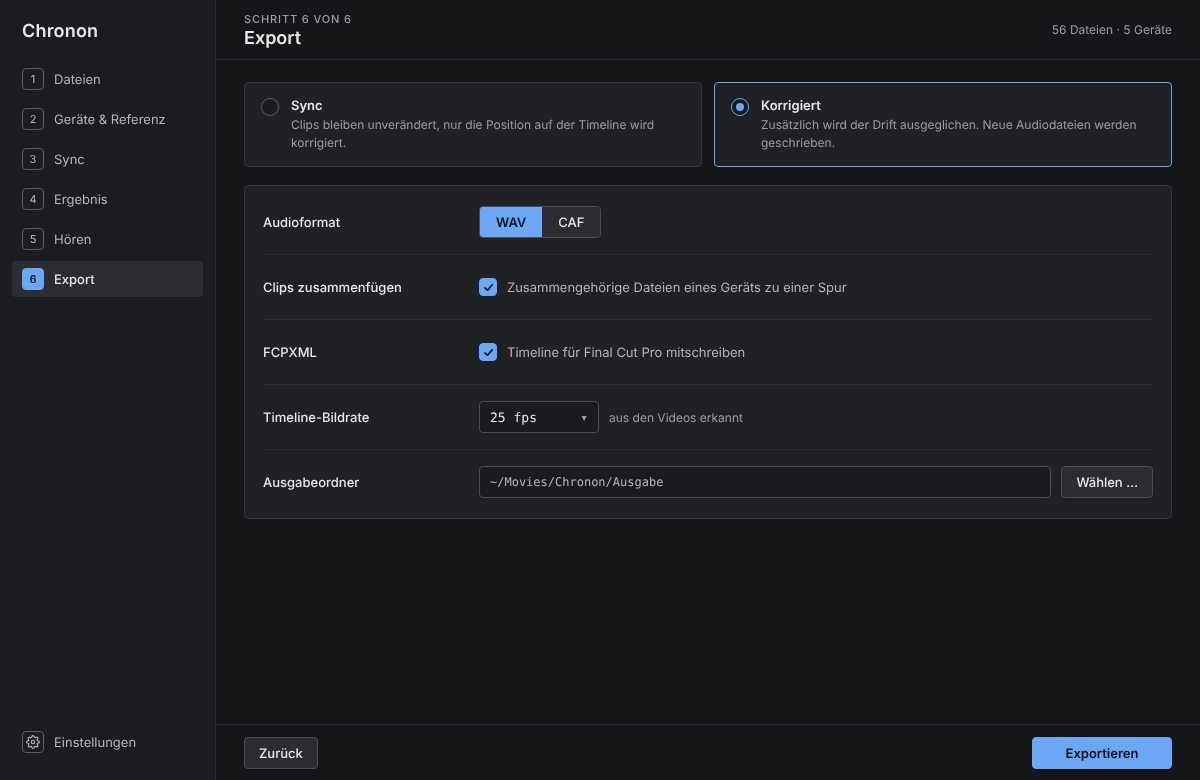
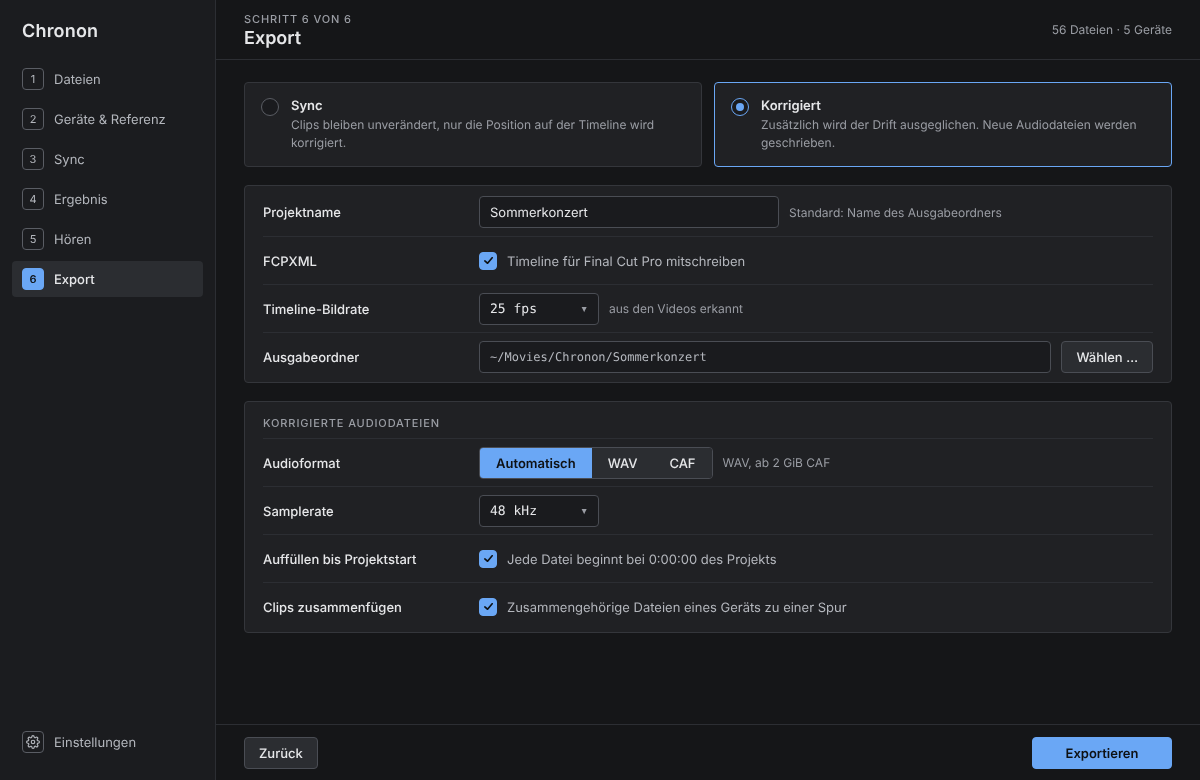
Design revision 1: device editing, listen list, export options, appearance
New boards 05a-c (regroup, move, merge), 11a-b (sync form, no padding); boards 05, 10-15
updated per docs/design/revision-1.md; README updated.

diff --git a/docs/design/ui/README.md b/docs/design/ui/README.md
@@ -20,20 +20,31 @@ load them first (the prototype uses sample data).
 | 02-files-reading | Intermediate state while the files are probed ("23 / 56") |
 | 03-files-loaded | Flat file list: name, duration, sample rate, channels, start time |
 | 04-files-unreadable-dialog | Modal "Datei nicht lesbar" with the ffmpeg message |
-| 05-devices-reference | Device list (pick the reference device), then reference tracks, then audition |
+| 05-devices-reference | Device list (rename inline with optional description, reorder by the drag handle, pick the reference; "Vorschlag" marks the suggestion), then reference tracks (nameable), then audition |
+| 05a-devices-regroup | A device's files opened: select files, then "In Gerät verschieben …" or "Als neues Gerät abtrennen" (the file menu shows the same two) |
+| 05b-devices-move-dialog | Dialog "Datei verschieben": pick a device or "Neues Gerät" with a name |
+| 05c-devices-merge-dialog | Dialog "Geräte zusammenführen" (row menu "…"), with the name after merging |
 | 06-sync-running / 07-sync-cancelled | Progress, step list, cancel in the footer |
 | 08-result | "Alle 5 Geräte sind synchronisiert", read-only timeline, details collapsed |
 | 09-result-details-special-cases | Details table with all verdict kinds |
-| 10-listen | Waveform of reference and file around a position, play, split/mixed |
-| 11-export / 12-export-rejected / 13-export-done / 14-export-done-with-notes | Export form and outcomes |
-| 15-settings | Language, cache folder, log, about |
+| 10-listen | Every file except the reference with its verdict badge; files to check first ("Zu prüfen"), then "Zuverlässig". Waveform of reference and file around a position, play, split/mixed |
+| 11-export / 11a-export-sync / 11b-export-no-padding | Export form: "Korrigiert" (format, sample rate, padding, join clips), "Sync" (project name, FCPXML, frame rate, output folder only), padding off with the CAF hint |
+| 12-export-rejected / 13-export-done / 14-export-done-with-notes | Rejected output folder, outcome list (`<Gerät>_korrigiert.<ext>`), outcome with notes. The only file action is "Im Finder zeigen" |
+| 15-settings | Language, appearance (System / Hell / Dunkel), cache folder (macOS path shown), log, about |
+
+The PNG numbers of earlier boards stay as they were; new boards of a step get a letter (05a, 11a).
 
 ## Where the data comes from
 
 - **Files step:** `audio.probe` per file (metadata only, one ffprobe call each). Unreadable files
   show up here (`AudioError: cannot read …`).
 - **Devices step:** `devices.group` from that metadata and the file names. The reference is a
-  device plus its tracks (`-r`). Grouping must not appear in the Files step.
+  device plus its tracks (`-r`). Grouping must not appear in the Files step. The user may then
+  rename, reorder, regroup (move a file, split, merge) and name tracks. All of that is a property
+  of the project, never of the original files. Device names become `<Gerät>_korrigiert.<ext>`
+  and lane / clip names in the timeline file.
+- **Reference suggestion:** the device covering the most time is preselected and marked
+  "Vorschlag", its loudest tracks are preselected. Both can be changed.
 - **Result rows:** per file `offset`, `drift_ppm`, `confidence`, `reliable`, `wander_ms`, `via`,
   `drift_from`, `linked_via`, `notes` (see `docs/app.md`).
 - **Verdict badges** (only what the core reports):
@@ -42,6 +53,8 @@ load them first (the prototype uses sample data).
   - `kein sicherer Treffer`: `reliable` is false. Hints: "drift from <file>", "linked via <file>".
   - `Referenz`: the reference device.
   - Other hints: `inverted`, "video placed within ±x ms", "measured via <file>".
+- **Listen step:** the list holds every file with a verdict (`reliable`, `wander_ms`), not only
+  the measured ones. Files that are not reliable or wander come first.
 - **Export notes:** from `correct.py` (CAF instead of WAV above 2 GiB, no time stamp in CAF,
   audio of a video file, `VERIFICATION FAILED`). Board 14 shows how they appear.
 - Placeholders in the boards (`[Start]`, `[ppm]`, `±[x] ms`, `[x.y.z]`) mean "real value goes
@@ -94,7 +107,8 @@ Fonts: IBM Plex Sans (UI) and IBM Plex Mono (numbers, times, paths). Sizes: 22/6
 ## Components
 
 - Button 32 high; primary = accent fill, 600; small table button 26 high.
-- Input 32 high, 10 px padding. Checkbox and radio 18 × 18; radio dot 8.
+- Input 32 high, 10 px padding. Checkbox and radio 18 × 18; radio dot 8. Drag handle: 6 dots, 10 × 16.
+- Selection bar below a device's files (one line, buttons 32 high); popup menu with 2 items.
 - Segmented control 30 high, selected = accent fill.
 - Badge 22 high, 9 side padding, 12/500, 11 px icon, 1 border. "kein sicherer Treffer" has a
   dashed border; "Referenz" is an accent fill.
@@ -108,13 +122,31 @@ Fonts: IBM Plex Sans (UI) and IBM Plex Mono (numbers, times, paths). Sizes: 22/6
   shows them. Most users only need "synced".
 - Reference choice is prominent (step 2): device first, then its tracks, with an audition
   (waveform, play/pause, −1 min / −10 s / +10 s / +1 min, slider).
+- Devices: names and order are edited in place. Click a name to rename (name + optional
+  description, "OK"); the grip moves a row up (drag and drop in Qt). The order is the lane order
+  in the timeline and export. Files are shown per device on demand ("Dateien"); with 56 files and
+  5 devices all devices stay collapsed except the one being edited. Only devices of clips can be
+  regrouped or merged; multitrack devices keep their tracks together.
+- Reference: the "Vorschlag" badge marks the device covering the most time. "Referenz" is the
+  user's choice. Tracks in the grid show their name once named (naming happens in the audition).
+- Listen: the file list scrolls; badge colors as in the result. Files to check come first.
 - Export: "Sync" (originals stay, timeline only) or "Korrigiert" (drift-corrected audio).
-  Format (WAV/CAF) appears only for "Korrigiert". Frame rate appears for audio-only projects
-  (shown on the boards as "aus den Videos erkannt"). The output folder must not be the
-  originals' folder; the GUI repeats that check early (board 12).
+  Common rows: project name (default = output folder name, names the timeline and `.fcpxml`),
+  FCPXML, frame rate, output folder. Only for "Korrigiert": audio format (Automatisch / WAV /
+  CAF, default Automatisch = "WAV, ab 2 GiB CAF"), sample rate (44,1 / 48 / 88,2 / 96 kHz,
+  default 48), "Auffüllen bis Projektstart" (default on; off shows "CAF hat keinen Zeitstempel:
+  Position nur über die Timeline-Datei" when the format can be CAF) and join clips. Frame rate
+  appears for audio-only projects (shown as "aus den Videos erkannt"). The output folder must
+  not be the originals' folder; the GUI repeats that check early (board 12).
+- Export done: one file action, "Im Finder zeigen" (Windows "Im Explorer zeigen", Linux
+  "Im Dateimanager zeigen"). CAF outputs end in `.caf`.
+- Settings: appearance row System / Hell / Dunkel (default System). The cache folder default is
+  per platform (macOS `~/Library/Caches/Chronon`, Windows `%LOCALAPPDATA%\Chronon\Cache`,
+  Linux `~/.cache/chronon`); the boards show the macOS one.
 
 ## Not designed yet
 
-- Switching between light and dark (system / light / dark) in settings.
+- Applying the appearance setting live (the row is designed, both themes exist).
+- Drag and drop between devices (the boards use selection and menus; drag is a shortcut).
 - Real waveform data and the audition's playback latency behaviour.
 - Qt specifics (native slider and combo box will differ from the mock-ups).
